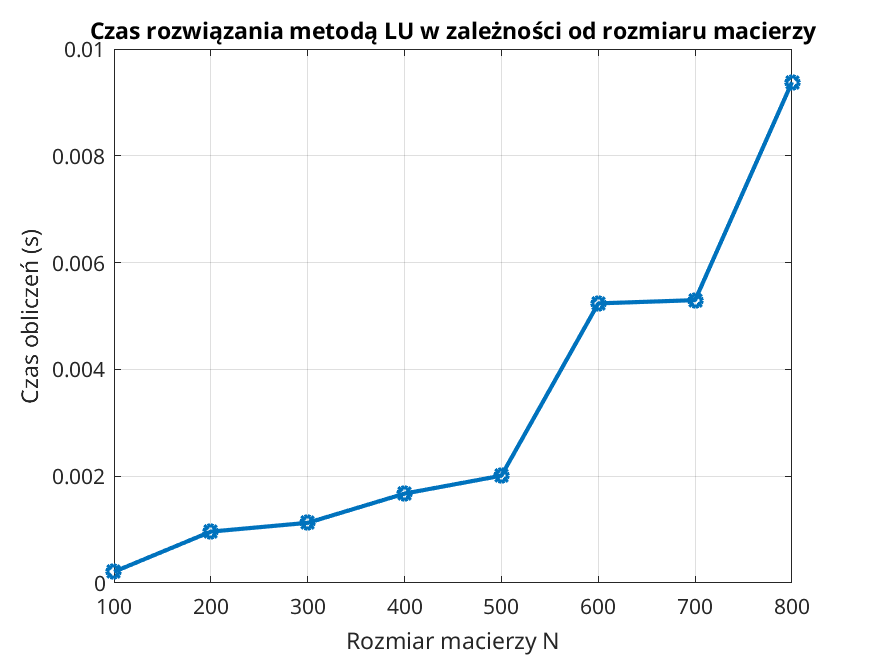
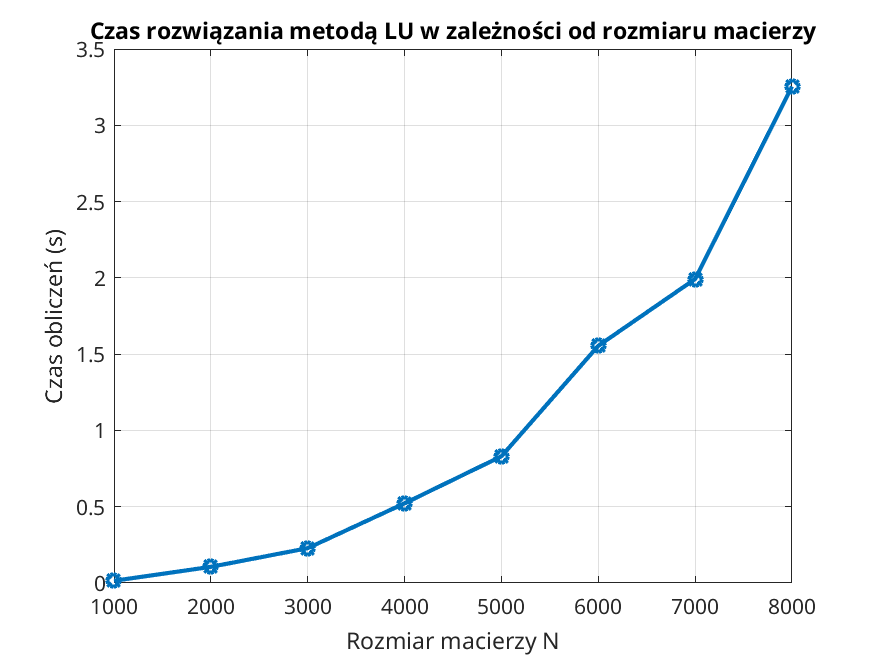
zadanie2.m fixed

diff --git a/Sem4/MN/labs/lab3/zadanie2/zadanie2.m b/Sem4/MN/labs/lab3/zadanie2/zadanie2.m
@@ -1,6 +1,6 @@
 close all
 format compact
 
-vN = 100:100:800;
+vN = 1000:1000:8000;
 
 [A,b,x,vec_time_direct] = benchmark_solve_direct(vN);
